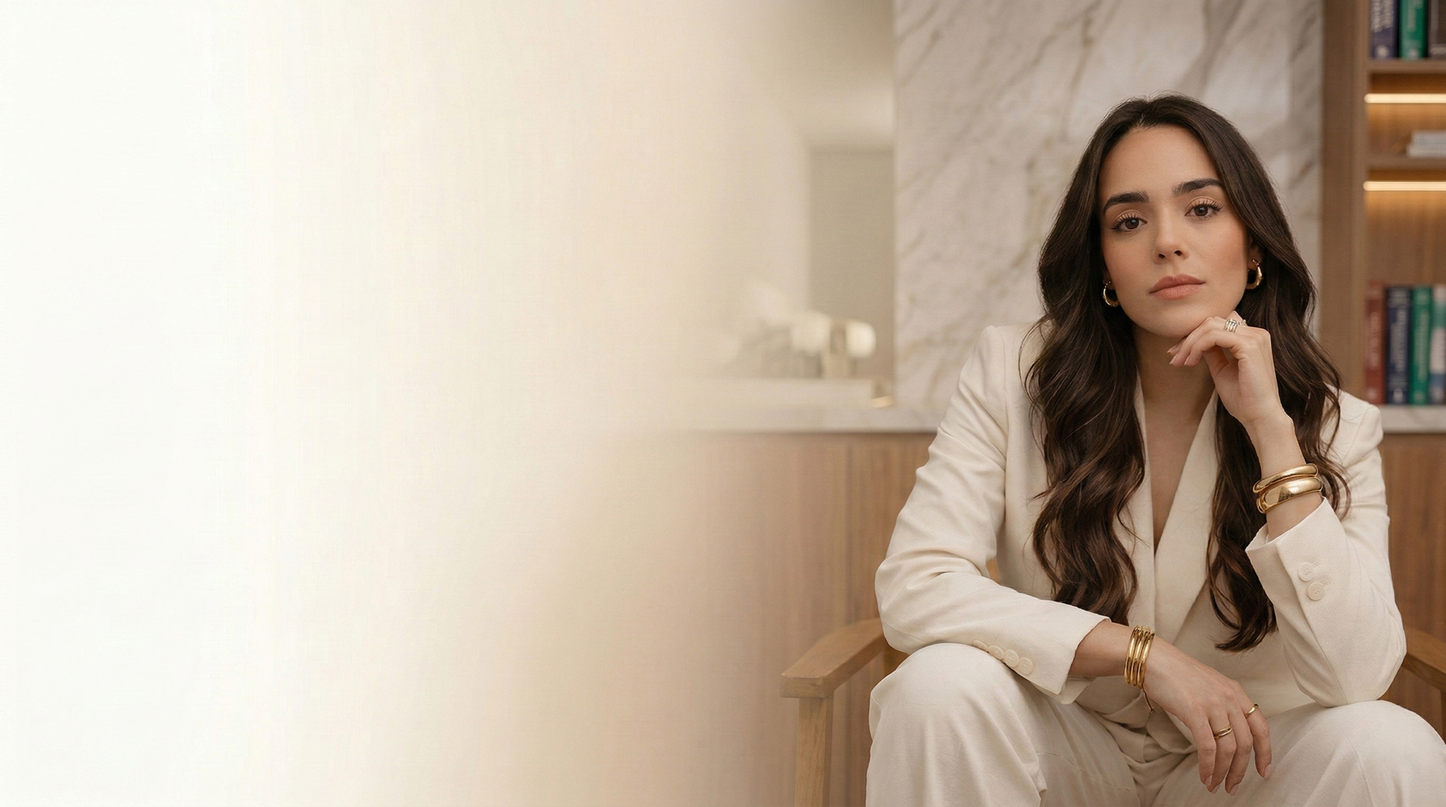
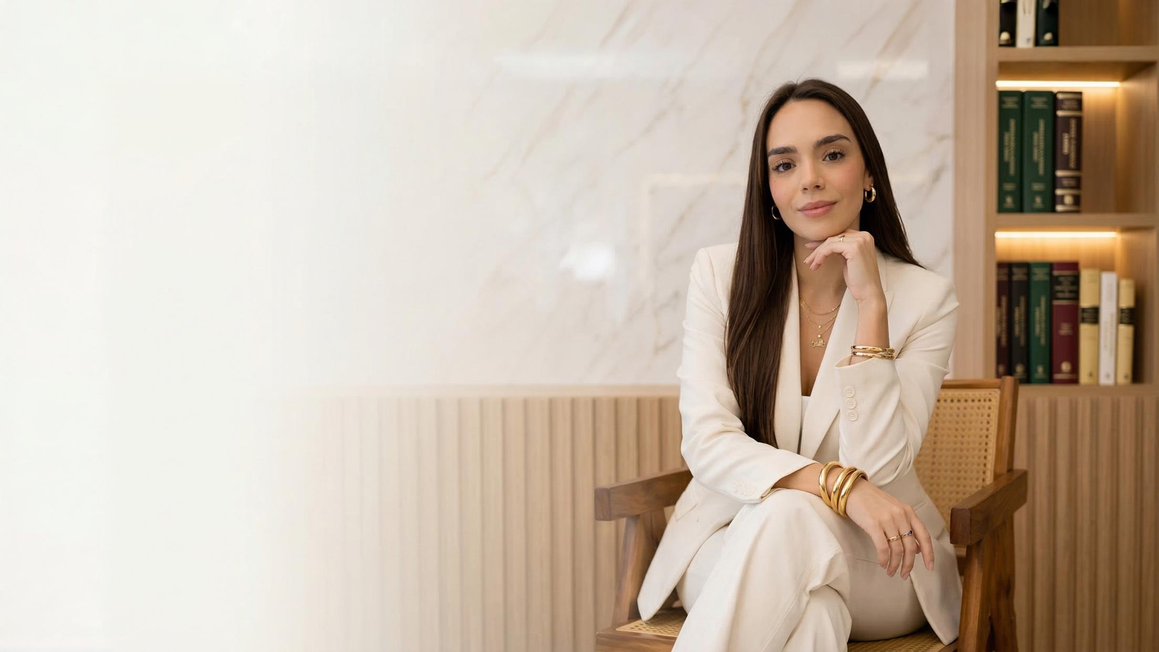
feat: Add multiple hero images and adjust hero section background styling for improved vertical positioning and fallback color.

diff --git a/src/css/sections/hero.css b/src/css/sections/hero.css
@@ -10,12 +10,11 @@
     padding-top: var(--navbar-height);
     /* Background Image Integrado */
     background-image: url('/assets/images/hero/imagem-hero.jpeg');
-    background-size: cover;
-    background-position: right top 15%;
-    /* Adicionado um shift para baixo para não cortar a cabeça */
+    background-size: auto 90%; /* Força a imagem a ser 10% menor na vertical para dar respiro em cima */
+    background-position: right bottom; /* Ancorada no chão, empurrando a cabeça dela para baixo da Navbar */
     background-repeat: no-repeat;
-    /* Soft fallback color while loading */
-    background-color: var(--bg-primary);
+    /* Continuidade perfeita do fade para telas ultrawide e preenchimento superior */
+    background-color: var(--bg-primary, #fcfcfc); 
     overflow: hidden;
 }
 
